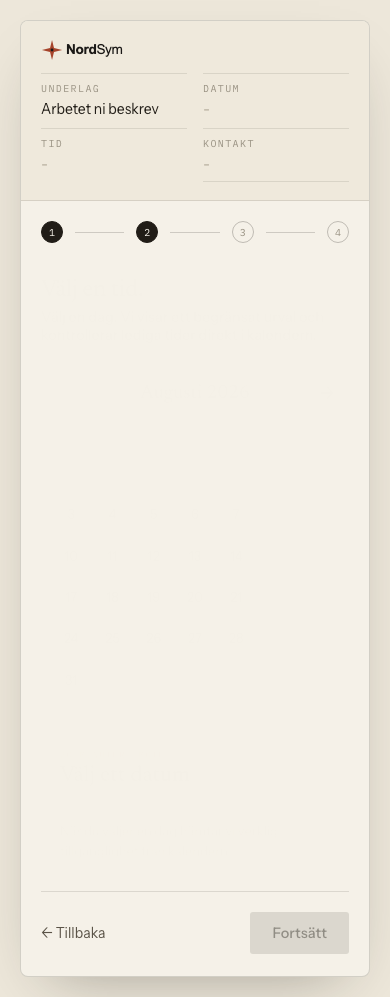
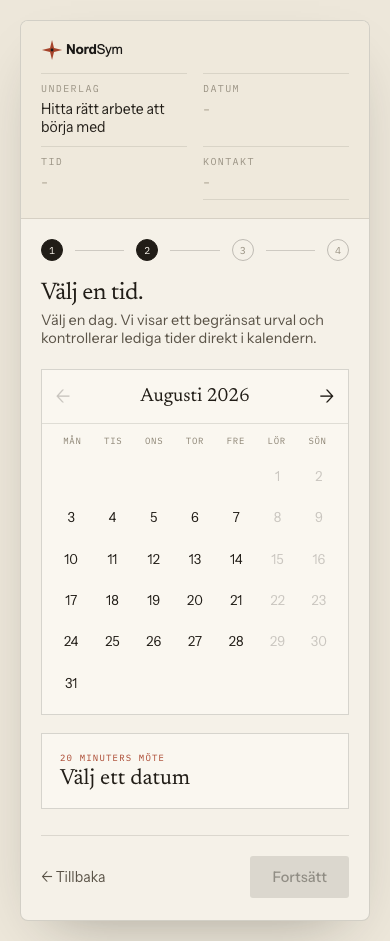
Polish Meta booking availability state

diff --git a/book/index.html b/book/index.html
@@ -626,7 +626,7 @@
     return '<section class="availability-panel" data-availability-panel aria-live="polite">'
       + '<p class="availability-label">'+(paidVariant ? '20 minuters möte' : '20-minute call')+'</p>'
       + '<h3>'+(paidVariant ? 'Välj ett datum' : 'Choose a date')+'</h3>'
-      + '<p class="availability-message">'+(paidVariant ? 'När du väljer en dag hämtar vi verklig tillgänglighet från kalendern.' : 'Choose a day to check live calendar availability.')+'</p>'
+      + (paidVariant ? '' : '<p class="availability-message">Choose a day to check live calendar availability.</p>')
       + '</section>';
   }
 

diff --git a/output/meta-e2e-preview-2026-07-30/evidence-receipt.md b/output/meta-e2e-preview-2026-07-30/evidence-receipt.md
@@ -61,6 +61,13 @@ read as one coherent journey. This visual acceptance remains open.
   `06-booking-availability-mobile.png`, `07-booking-details-mobile.png` and
   `contact-sheet.png`.
 
+## 2026-08-02 final booking polish
+
+- The pre-selection availability panel now shows only `Välj ett datum`.
+- The redundant live-calendar explanation was removed without changing calendar,
+  accessibility, availability, qualification-context or booking behavior.
+- The corrected state was visually verified at 390 x 844 and 1440 x 1000.
+
 ## 2026-08-02 bridge candidate receipt
 
 - Unchanged Tella source: `/Users/gustavhemmingsson/Desktop/Kom igång med era AI-agenter.mp4`
